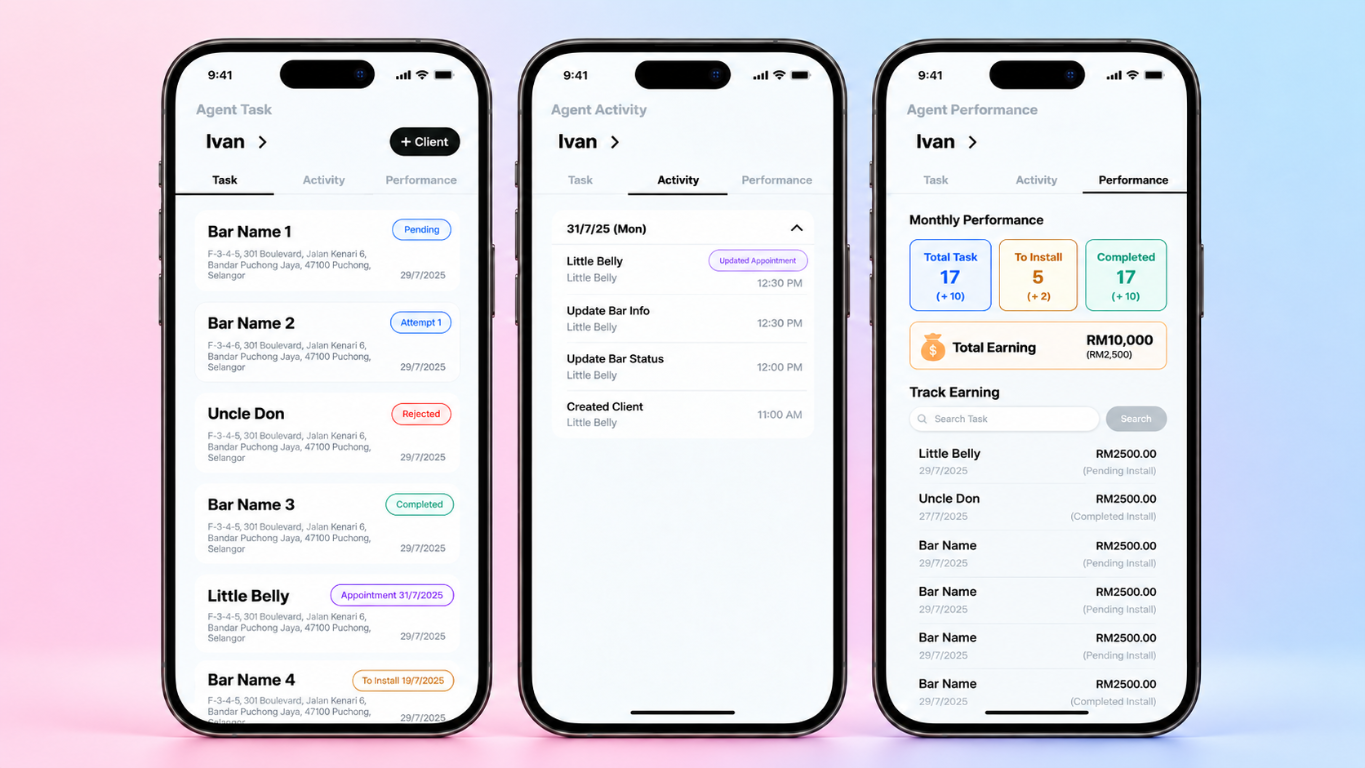
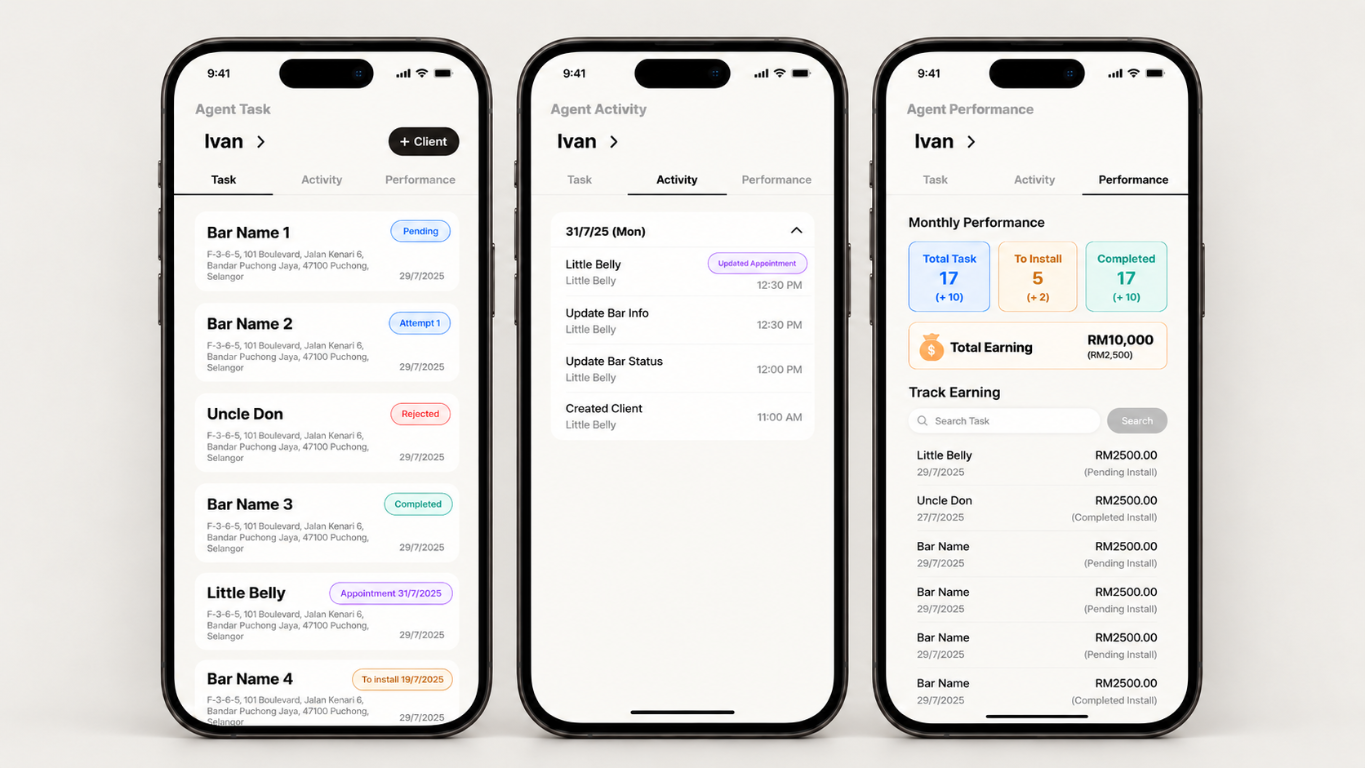
Update portfolio imagery and content

diff --git a/src/components/island/PortfolioIsland.tsx b/src/components/island/PortfolioIsland.tsx
@@ -24,8 +24,8 @@ const projects = [
     number: "02",
     title: "Open Data Maturity AI Framework",
     description:
-      "An AI-powered retrieval-augmented generation (RAG) framework for retrieving evidence, evaluating open data maturity, and generating structured country-level assessments aligned with benchmark criteria.",
-    stack: "Python · LLM · RAG · ChromaDB · Streamlit",
+      "An AI-powered (LLM) retrieval-augmented generation (RAG) framework for retrieving evidence, evaluating open data maturity, and generating structured country-level assessments aligned with benchmark criteria.",
+    stack: "Python · LLM · RAG · ChromaDB · Streamlit · Prompt Engineering",
     image: odm.url,
     imageWidth: 1122,
     imageHeight: 1402,
@@ -119,13 +119,25 @@ export function PortfolioIsland() {
         <h2>Building useful software with clarity, care, and a strong point of view.</h2>
         <div>
           <span>Python / AI / RAG</span>
-          <span>TypeScript / React</span>
-          <span>Next.js / Node.js</span>
-          <span>PostgreSQL / Supabase</span>
-          <span>ChromaDB / Vector Search</span>
-          <span>LLMs / Prompt Engineering</span>
-          <span>Git / GitHub</span>
-          <span>UI / Product Design</span>
+          <span>TypeScript / JavaScript</span>
+          <span>Java / C / C++</span>
+          <span>SQL / Data Processing</span>
+
+          <span>Angular / Next.js</span>
+          <span>Streamlit / Electron</span>
+
+          <span>Firebase / MongoDB</span>
+          <span>Supabase / ChromaDB</span>
+
+          <span>LLMs / Semantic Search</span>
+          <span>Sentence Embeddings / SBERT</span>
+          <span>Vector Databases / Vector Search</span>
+          <span>TF-IDF / Cosine Similarity</span>
+
+          <span>REST APIs / API Integration</span>
+          <span>Real-Time Data Synchronisation</span>
+
+          <span>Git / Version Control</span>
         </div>
       </section>
 
